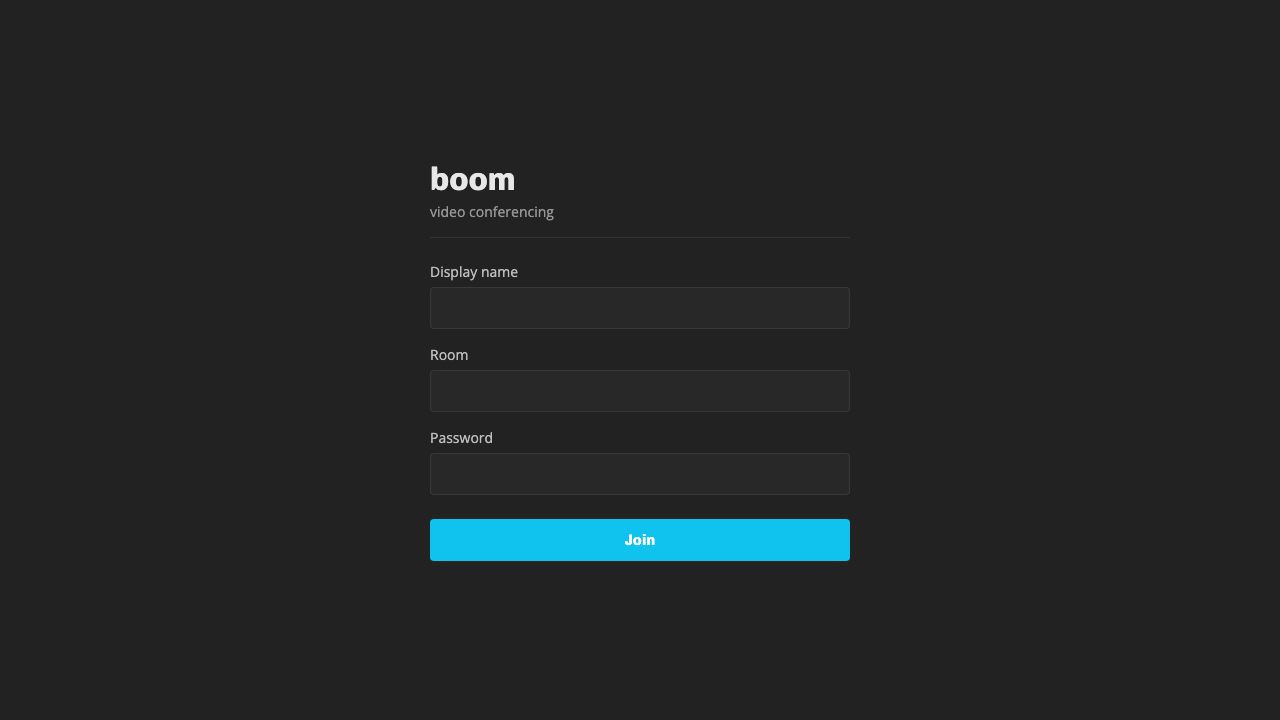
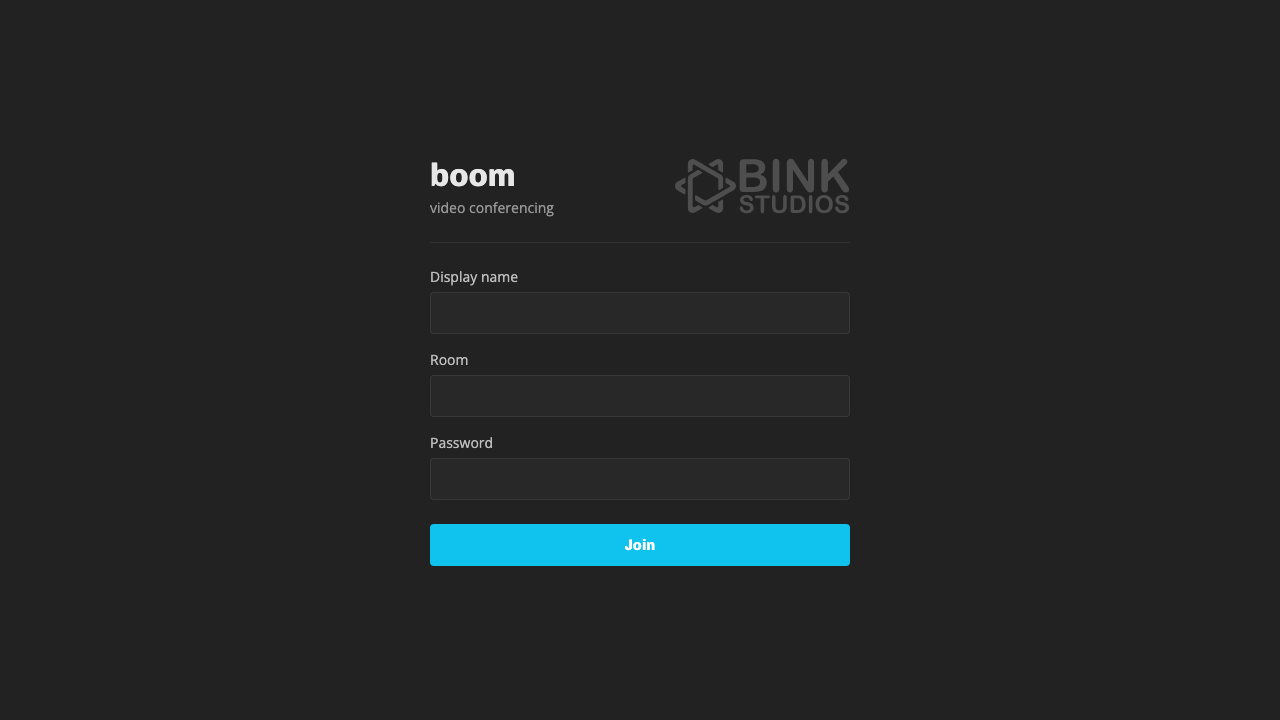
Update README screenshots with Bink Studios branding

diff --git a/src/components/PreJoinPage.tsx b/src/components/PreJoinPage.tsx
@@ -73,7 +73,7 @@ const styles = {
     borderBottom: "1px solid rgba(255, 255, 255, 0.08)",
   } as const,
   brandingLogo: {
-    height: "4rem",
+    height: "3rem",
     opacity: 0.2,
     filter: "invert(1)",
     display: "block",
